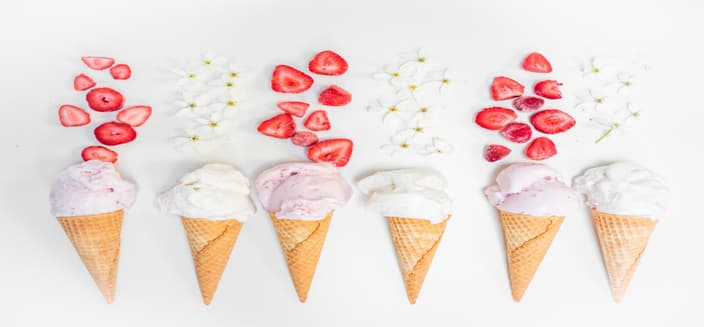
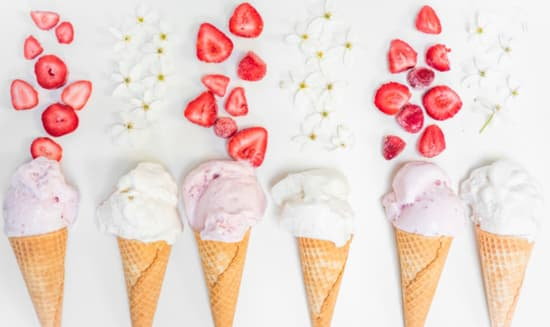
new foto gallery

diff --git a/src/partials/gallery.html b/src/partials/gallery.html
@@ -22,91 +22,208 @@
                 <div class="image-slider__slide swiper-slide">
                     <div class="image-slider__image">
                         <picture>
-                            <img src="./images/gallery-icecream_1.jpg" alt="Ice Crem 2" class="gallery__img">
+                            <source
+                                srcset="./images/gallery-icecream1-desktop.jpg 1x"
+                                media="(min-width: 1200px)" />
+                            <source 
+                                srcset="./images/gallery-icecream1-tab.jpg 1x"
+                                media="(min-width: 768px)" />
+                            <source 
+                                srcset="./images/gallery-icecream1-mobile.jpg 1x"
+                                media="(max-width: 767px)" />
+                            <img src="./images/gallery-icecream1-mobile.jpg" alt="Ice Crem 2" class="gallery__img">
                         </picture>
                     </div>
                 </div>
                 <div class="image-slider__slide swiper-slide">
                     <div class="image-slider__image">
                         <picture>
-                            <img src="./images/gallery-icecream_2.jpg" alt="Ice Crem 3" class="gallery__img">
+                            <source 
+                                srcset="./images/gallery-icecream2-desktop.jpg 1x"
+                                media="(min-width: 1200px)" />
+                            <source 
+                                srcset="./images/gallery-icecream2-tab.jpg 1x"
+                                media="(min-width: 768px)" />
+                            <source 
+                                srcset="./images/gallery-icecream2-mobile.jpg 1x"
+                                media="(max-width: 767px)" />
+                            <img src="./images/gallery-icecream2-mobile.jpg" alt="Ice Crem 3" class="gallery__img">
                         </picture>
                     </div>
                 </div>
                 <div class="image-slider__slide swiper-slide">
                     <div class="image-slider__image">
                         <picture>
-                            <img src="./images/gallery_icecream_3.jpg" alt="Ice Crem 4" class="gallery__img">
+                            <source 
+                                srcset="./images/gallery-icecream3-desktop.jpg 1x"
+                                media="(min-width: 1200px)" />
+                            <source 
+                                srcset="./images/gallery-icecream3-tab.jpg 1x"
+                                media="(min-width: 768px)" />
+                            <source 
+                                srcset="./images/gallery-icecream3-mobile.jpg 1x"
+                                media="(max-width: 767px)" />
+                            <img src="./images/gallery-icecream3-mobile.jpg" alt="Ice Crem 4" class="gallery__img">
                         </picture>
                     </div>
                 </div>
                 <div class="image-slider__slide swiper-slide">
                     <div class="image-slider__image">
                         <picture>
-                            <img src="./images/gallery_icecream_4.jpg" alt="Ice Crem 5" class="gallery__img">
+                            <source 
+                                srcset="./images/gallery-icecream4-desktop.jpg 1x" 
+                                media="(min-width: 1200px)" />
+                            <source 
+                                srcset="./images/gallery-icecream4-tab.jpg 1x" 
+                                media="(min-width: 768px)" />
+                            <source 
+                                srcset="./images/gallery-icecream4-mobile.jpg 1x" 
+                                media="(max-width: 767px)" />
+                            <img src="./images/gallery-icecream4-mobile.jpg" alt="Ice Crem 5" class="gallery__img">
                         </picture>
                     </div>
                 </div>
                 <div class="image-slider__slide swiper-slide">
                     <div class="image-slider__image">
                         <picture>
-                            <img src="./images/gallery_icecream_5.jpg" alt="Ice Crem 6" class="gallery__img">
+                            <source 
+                                srcset="./images/gallery-icecream5-desktop.jpg 1x" 
+                                media="(min-width: 1200px)" />
+                            <source 
+                                srcset="./images/gallery-icecream5-tab.jpg 1x" 
+                                media="(min-width: 768px)" />
+                            <source 
+                                srcset="./images/gallery-icecream5-mobile.jpg 1x" 
+                                media="(max-width: 767px)" />
+                            <img src="./images/gallery-icecream5-mobile.jpg" alt="Ice Crem 6" class="gallery__img">
                         </picture>
                     </div>
                 </div>
                 <div class="image-slider__slide swiper-slide">
                     <div class="image-slider__image">
                         <picture>
-                            <img src="./images/gallery_icecream_6.jpg" alt="Ice Crem 7" class="gallery__img">
+                            <source 
+                                srcset="./images/gallery-icecream6-desktop.jpg 1x" 
+                                media="(min-width: 1200px)" />
+                            <source 
+                                srcset="./images/gallery-icecream6-tab.jpg 1x" 
+                                media="(min-width: 768px)" />
+                            <source 
+                                srcset="./images/gallery-icecream6-mobile.jpg 1x" 
+                                media="(max-width: 767px)" />
+                            <img src="./images/gallery-icecream6-mobile.jpg" alt="Ice Crem 7" class="gallery__img">
                         </picture>
                     </div>
                 </div>
                 <div class="image-slider__slide swiper-slide">
                     <div class="image-slider__image">
                         <picture>
-                            <img src="./images/gallery_icecream_7.jpg" alt="Ice Crem 8" class="gallery__img">
+                            <source 
+                                srcset="./images/gallery-icecream7-desktop.jpg 1x" 
+                                media="(min-width: 1200px)" />
+                            <source 
+                                srcset="./images/gallery-icecream7-tab.jpg 1x" 
+                                media="(min-width: 768px)" />
+                            <source 
+                                srcset="./images/gallery-icecream7-mobile.jpg 1x" 
+                                media="(max-width: 767px)" />
+                            <img src="./images/gallery-icecream7-mobile.jpg" alt="Ice Crem 8" class="gallery__img">
                         </picture>
                     </div>
                 </div>
                 <div class="image-slider__slide swiper-slide">
                     <div class="image-slider__image">
                         <picture>
-                            <img src="./images/gallery_icecream_8.jpg" alt="Ice Crem 9" class="gallery__img">
+                            <source 
+                                srcset="./images/gallery-icecream8-desktop.jpg 1x" 
+                                media="(min-width: 1200px)" />
+                            <source 
+                                srcset="./images/gallery-icecream8-tab.jpg 1x" 
+                                media="(min-width: 768px)" />
+                            <source 
+                                srcset="./images/gallery-icecream8-mobile.jpg 1x" 
+                                media="(max-width: 767px)" />
+                            <img src="./images/gallery-icecream8-mobile.jpg" alt="Ice Crem 9" class="gallery__img">
                         </picture>
                     </div>
                 </div>
                 <div class="image-slider__slide swiper-slide">
                     <div class="image-slider__image">
                         <picture>
-                            <img src="./images/gallery_icecream_9.jpg" alt="Ice Crem 10" class="gallery__img">
+                            <source 
+                                srcset="./images/gallery-icecream9-desktop.jpg 1x" 
+                                media="(min-width: 1200px)" />
+                            <source 
+                                srcset="./images/gallery-icecream9-tab.jpg 1x" 
+                                media="(min-width: 768px)" />
+                            <source 
+                                srcset="./images/gallery-icecream9-mobile.jpg 1x" 
+                                media="(max-width: 767px)" />
+                            <img src="./images/gallery-icecream9-mobile.jpg" alt="Ice Crem 10" class="gallery__img">
                         </picture>
                     </div>
                 </div>
                 <div class="image-slider__slide swiper-slide">
                     <div class="image-slider__image">
                         <picture>
-                            <img src="./images/gallery_icecream_10.jpg" alt="Ice Crem 11" class="gallery__img">
+                            <source 
+                                srcset="./images/gallery-icecream10-desktop.jpg 1x" 
+                                media="(min-width: 1200px)" />
+                            <source 
+                                srcset="./images/gallery-icecream10-tab.jpg 1x" 
+                                media="(min-width: 768px)" />
+                            <source 
+                                srcset="./images/gallery-icecream10-mobile.jpg 1x" 
+                                media="(max-width: 767px)" />
+                            <img src="./images/gallery-icecream10-mobile.jpg" alt="Ice Crem 11" class="gallery__img">
                         </picture>
                     </div>
                 </div>
                 <div class="image-slider__slide swiper-slide">
                     <div class="image-slider__image">
                         <picture>
-                            <img src="./images/gallery_icecream_11.jpg" alt="Ice Crem 12" class="gallery__img">
+                            <source 
+                                srcset="./images/gallery-icecream11-desktop.jpg 1x" 
+                                media="(min-width: 1200px)" />
+                            <source 
+                                srcset="./images/gallery-icecream11-tab.jpg 1x" 
+                                media="(min-width: 768px)" />
+                            <source 
+                                srcset="./images/gallery-icecream11-mobile.jpg 1x" 
+                                media="(max-width: 767px)" />
+                            <img src="./images/gallery-icecream11-mobile.jpg" alt="Ice Crem 12" class="gallery__img">
                         </picture>
                     </div>
                 </div>
                 <div class="image-slider__slide swiper-slide">
                     <div class="image-slider__image">
                         <picture>
-                            <img src="./images/gallery_icecream_12.jpg" alt="Ice Crem 13" class="gallery__img">
+                            <source 
+                                srcset="./images/gallery-icecream12-desktop.jpg 1x" 
+                                media="(min-width: 1200px)" />
+                            <source 
+                                srcset="./images/gallery-icecream12-tab.jpg 1x" 
+                                media="(min-width: 768px)" />
+                            <source 
+                                srcset="./images/gallery-icecream12-mobile.jpg 1x" 
+                                media="(max-width: 767px)" />
+                            <img src="./images/gallery-icecream12-mobile.jpg" alt="Ice Crem 13" class="gallery__img">
                         </picture>
                     </div>
                 </div>
                 <div class="image-slider__slide swiper-slide">
                     <div class="image-slider__image">
                         <picture>
-                            <img src="./images/gallery_icecream_13.jpg" alt="Ice Crem 14" class="gallery__img">
+                            <source 
+                                srcset="./images/gallery-icecream13-desktop.jpg 1x" 
+                                media="(min-width: 1200px)" />
+                            <source 
+                                srcset="./images/gallery-icecream13-tab.jpg 1x" 
+                                media="(min-width: 768px)" />
+                            <source 
+                                srcset="./images/gallery-icecream13-mobile.jpg 1x" 
+                                media="(max-width: 767px)" />
+                            <img src="./images/gallery-icecream13-mobile.jpg" alt="Ice Crem 14" class="gallery__img">
                         </picture>
                     </div>
                 </div>

diff --git a/src/partials/reviews.html b/src/partials/reviews.html
@@ -4,7 +4,7 @@
         <div class="reviews-slider__wrapper swiper-wrapper">
             <div class="reviews-slider__slide swiper-slide">
                 <div class="reviews-slider__block">
-                    <img src="./images/foto_Emily.jpg" alt="Emily" class="slaider__foto"></img>
+                    <img src="./images/foto_Emily.jpg" alt="Emily" class="slaider__foto">
                     <p class="reviews-slaider__text">I love visiting your cafe. You prepare the most delicious ice
                         cream in Los
                         Angeles! In addition, you have beautiful serving, cozy atmosphere and polite staff.</p>
@@ -13,7 +13,7 @@
             </div>
             <div class="reviews-slider__slide swiper-slide">
                 <div class="reviews-slider__block">
-                    <img src="./images/foto_Sam.jpg" alt="Sam" class="slaider__foto"></img>
+                    <img src="./images/foto_Sam.jpg" alt="Sam" class="slaider__foto">
                     <p class="reviews-slaider__text">I love eating popsicles on a hot day. Yours is always
                         delicious. I recommend your cafe to everyone I know.</p>
                     <p class="reviews-slaider__name">Sam, Los Angeles</p>
@@ -21,7 +21,7 @@
             </div>
             <div class="reviews-slider__slide swiper-slide">
                 <div class="reviews-slider__block">
-                    <img src="./images/foto_Diana.jpg" alt=Diana" class="slaider__foto"></img>
+                    <img src="./images/foto_Diana.jpg" alt="Diana" class="slaider__foto">
                     <p class="reviews-slaider__text">Ice cream is my passion! I love your chocolate hazelnut ice
                         cream! And I really like the excellent service - always served politely and quickly!</p>
                     <p class="reviews-slaider__name">Diana, Chicago</p>
@@ -29,7 +29,7 @@
             </div>
             <div class="reviews-slider__slide swiper-slide">
                 <div class="reviews-slider__block">
-                    <img src="./images/foto_Bryan.jpg" alt=Bryan" class="slaider__foto"></img>
+                    <img src="./images/foto_Bryan.jpg" alt="Bryan" class="slaider__foto">
                     <p class="reviews-slaider__text">Every day we come to you with friends after classes in college.
                         We love your ice cream and casual atmosphere!</p>
                     <p class="reviews-slaider__name">Bryan, New-York</p>

diff --git a/src/index.js b/src/index.js
@@ -5,6 +5,7 @@ new Swiper('.image-slider', {
   autoplay: {
     delay: 3300,
     disableOnInteraction: false,
+
   },
   effect: 'cube',
   flipEffect: {
@@ -13,6 +14,7 @@ new Swiper('.image-slider', {
     shadowOffset: 20,
     shadowScale: 0.94,
   },
+  loop: true,
 });
 
 new Swiper('.reviews-slider', {
